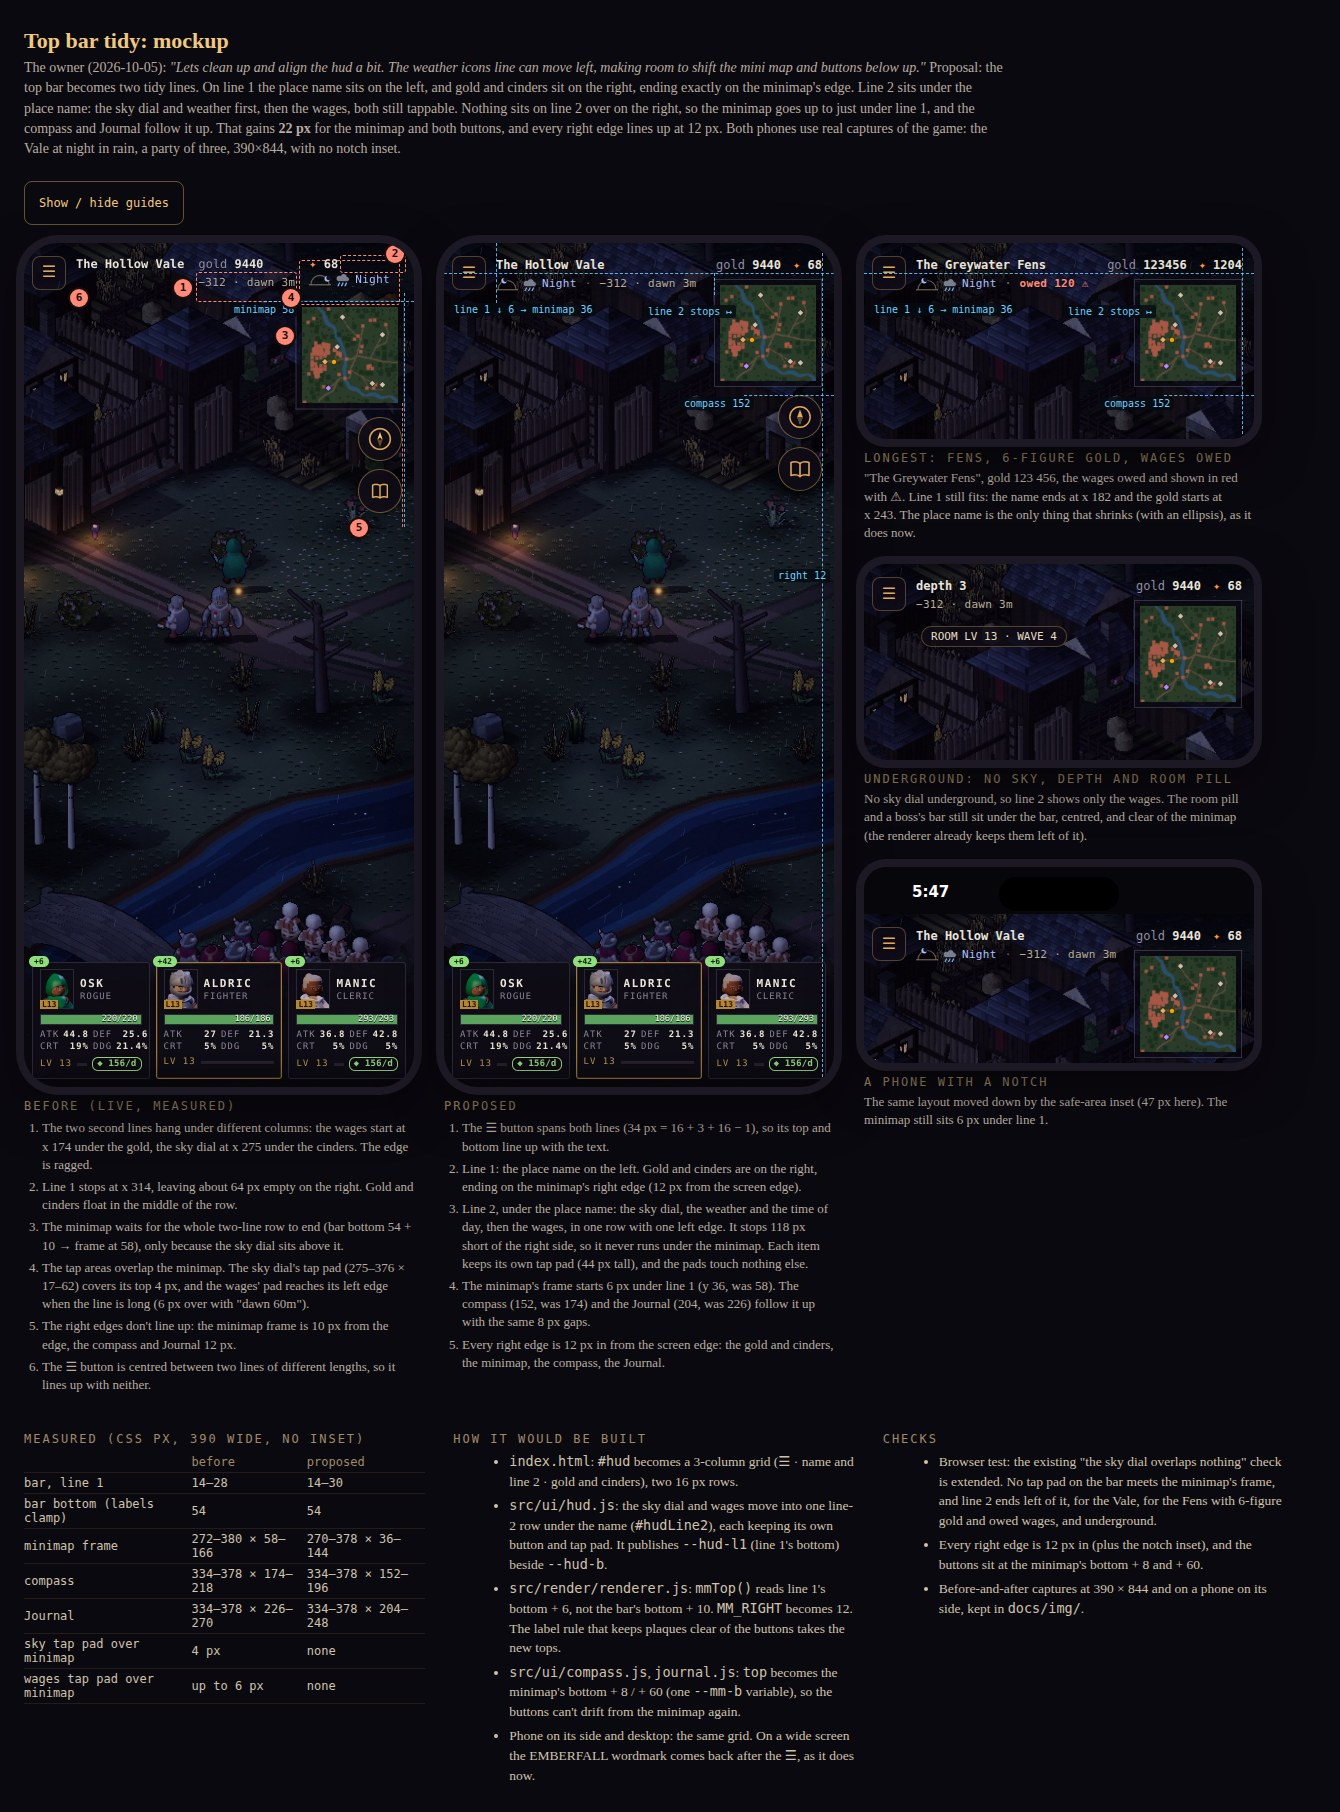
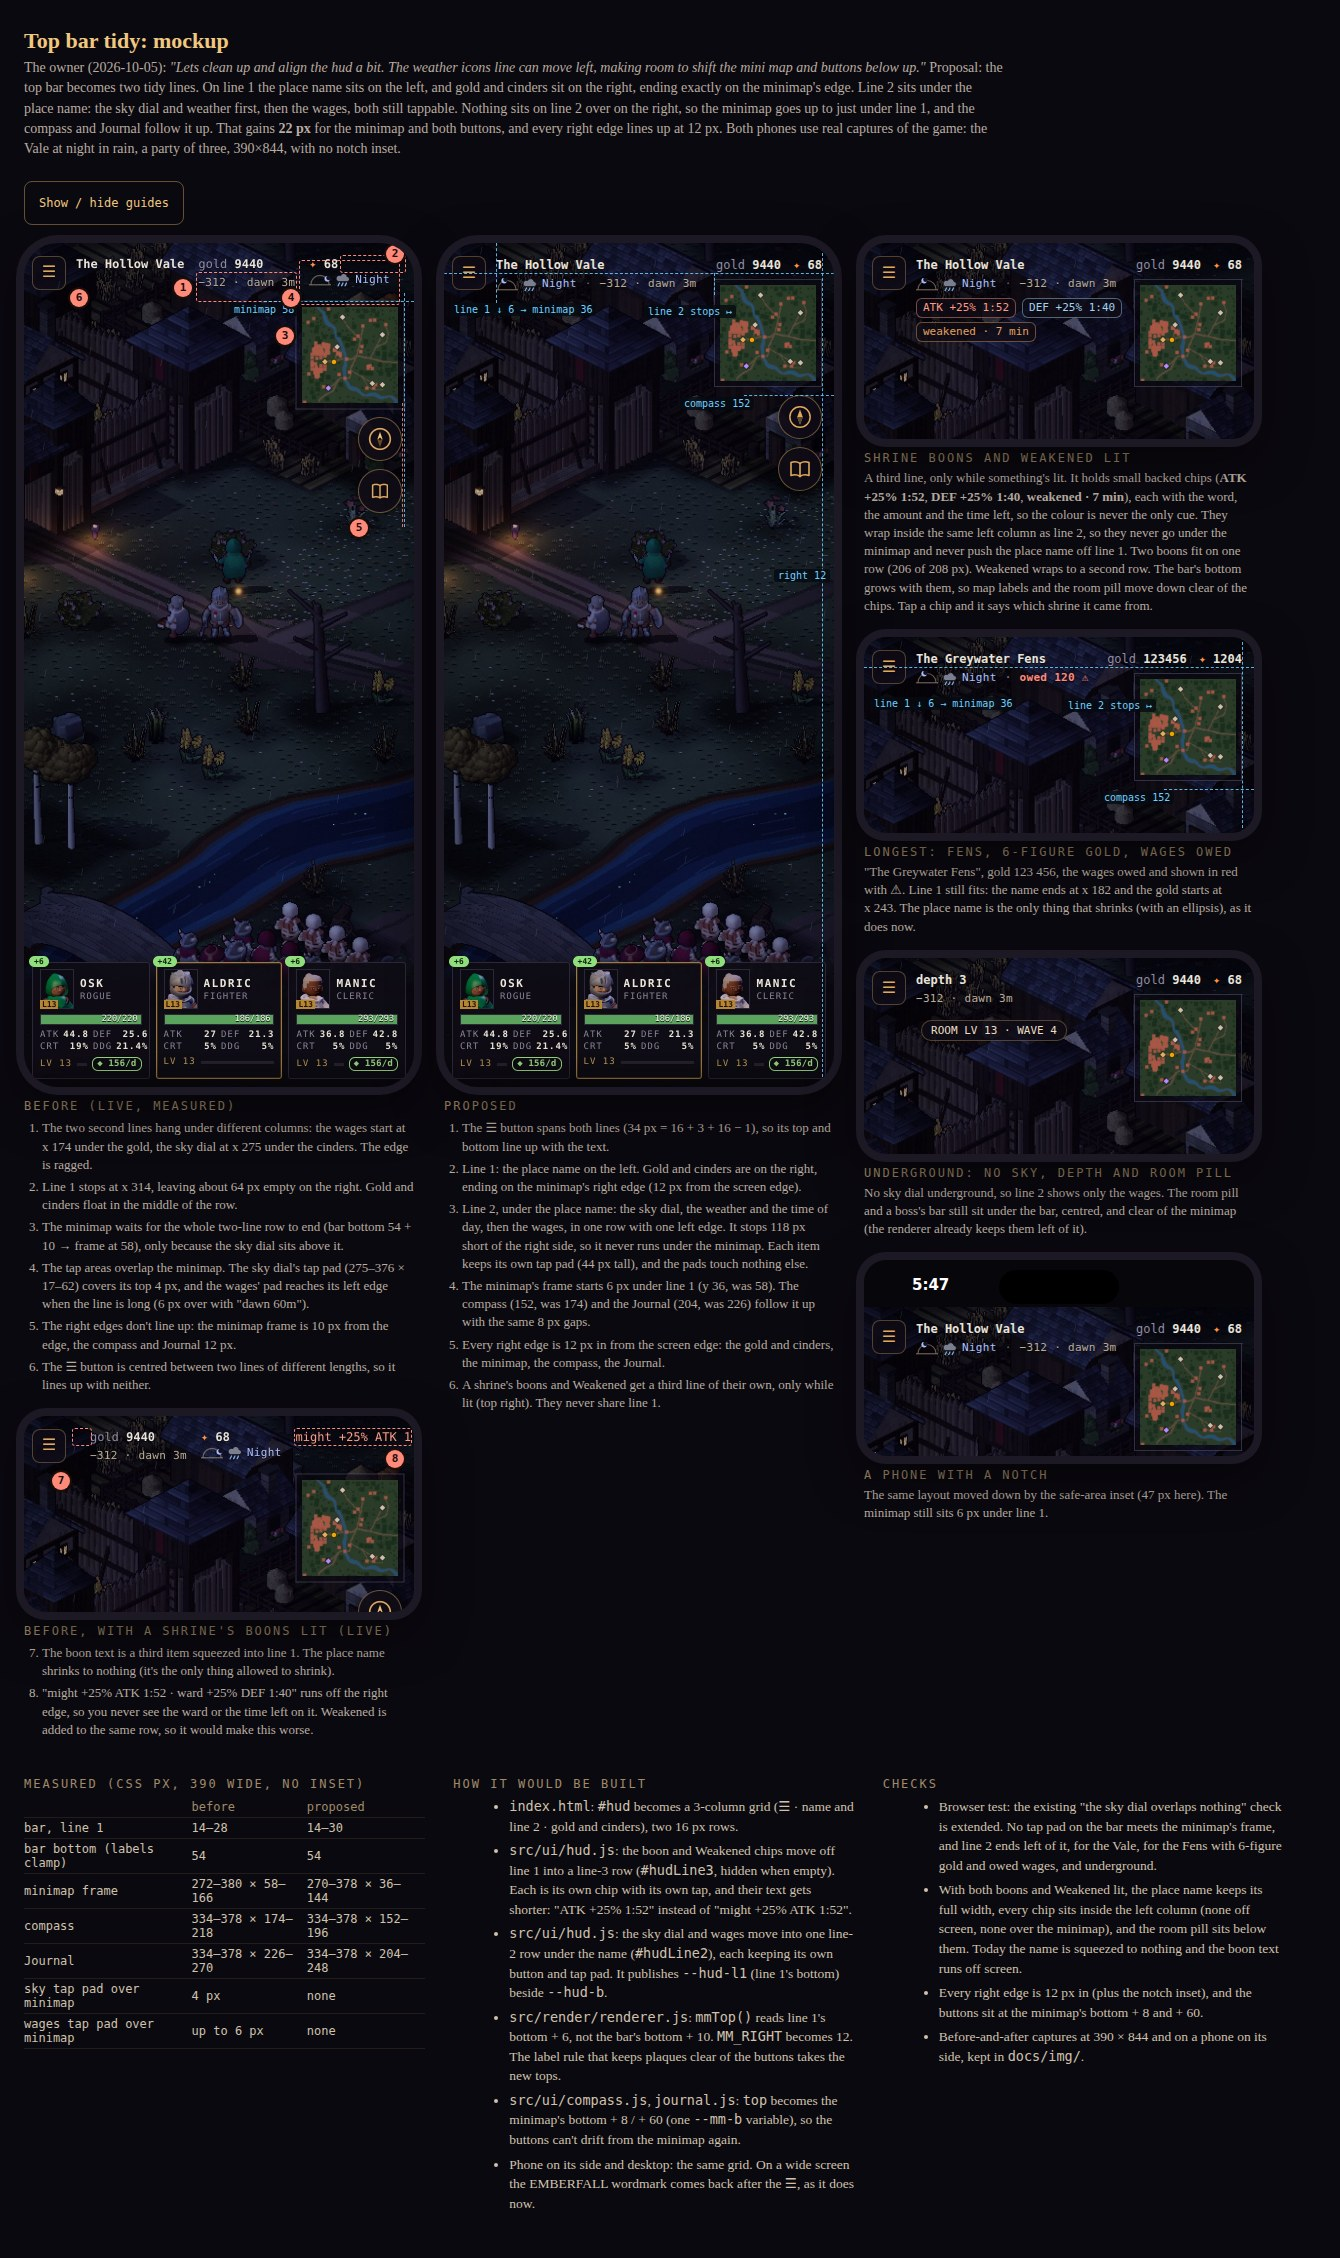
HUD mockup: the shrine boons and Weakened get a line of their own
The owner: "Make sure to account for the shrine buff text with the realignment." Measured live with both boons
lit: the boon text is a third item on the bar's single row, so the place name (the only thing allowed to shrink)
goes to nothing and "might +25% ATK 1:52 · ward +25% DEF 1:40" runs off the right edge; Weakened joins the same
row. The proposal puts them on a third line, only while lit, as small backed chips (ATK +25% 1:52, DEF +25% 1:40,
weakened · 7 min) wrapping in line 2's left column: two boons fit one row (206 of 208 px), none reaches the
minimap, and the bar's bottom grows so labels and the room pill clear them.

Claude-Session: https://claude.ai/code/session_015iJE9saRx1hCYJHRMUYeGn

diff --git a/docs/hud-mockup.html b/docs/hud-mockup.html
@@ -16,6 +16,7 @@
     background: #07060b center top / 390px 844px no-repeat; font-family: ui-monospace, 'SF Mono', Menlo, Consolas, monospace; }
   .phone.short { height: 196px; border-radius: 22px; }
   .before { background-image: url(img/hud-mockup/before.jpg); }
+  .before-boons { background-image: url(img/hud-mockup/before-boons.jpg); }
   .bare { background-image: url(img/hud-mockup/bare.jpg); }
   /* the numbered problems on the "before" capture, and the guides on the proposal */
   .mk { position: absolute; width: 18px; height: 18px; border-radius: 9px; background: var(--bad); color: #1a0d0a; font: 700 11px/18px ui-monospace, Menlo, monospace; text-align: center; box-shadow: 0 0 0 2px #1a0d0a; }
@@ -28,7 +29,7 @@
   /* ── the proposal: the HUD as two lines in a grid. Line 1: place name left, gold and cinders right, ending on the
      minimap's right edge. Line 2 (left only): the sky dial, then the wages. The ☰ spans both lines. */
   .hud2 { position: absolute; left: 0; right: 0; top: var(--st, 0px); padding: 14px 12px 0 8px; display: grid; grid-template-columns: 34px minmax(0, 1fr) auto;
-    grid-template-rows: 16px 16px; column-gap: 10px; row-gap: 3px; color: #e8e4da; text-shadow: 0 1px 0 #0d0913; font-size: 12px; line-height: 16px; }
+    grid-template-rows: 16px 16px auto; column-gap: 10px; row-gap: 3px; color: #e8e4da; text-shadow: 0 1px 0 #0d0913; font-size: 12px; line-height: 16px; }
   .hud2 .menu { grid-row: 1 / 3; width: 34px; height: 34px; margin-top: -1px; border-radius: 8px; background: rgba(16,12,22,0.7); border: 1px solid rgba(214,170,98,0.35); color: #e0a85a;
     font-size: 16px; display: grid; place-items: center; }
   .hud2 .place { grid-column: 2; font-weight: 700; white-space: nowrap; overflow: hidden; text-overflow: ellipsis; }
@@ -37,6 +38,11 @@
   .hud2 .l2 { grid-column: 2 / 4; grid-row: 2; display: flex; align-items: center; gap: 8px; font-size: 11px; letter-spacing: .3px; max-width: calc(100% - 118px); white-space: nowrap; }
   .hud2 .sky { display: flex; align-items: center; gap: 4px; }
   .hud2 .wage { color: #b8ac98; } .hud2 .wage.owed { color: #ff8a7a; font-weight: 700; } .hud2 .wage .dot { color: #6a6478; margin-right: 8px; }
+  /* line 3, only while something's lit: a shrine's boons and Weakened as small backed chips, word + number + time
+     (never the colour alone), wrapping inside the same left column as line 2 */
+  .hud2 .l3 { grid-column: 2 / 4; grid-row: 3; display: flex; flex-wrap: wrap; gap: 4px 6px; max-width: calc(100% - 118px); margin-top: 3px; }
+  .hud2 .chip { font-size: 11px; line-height: 16px; padding: 1px 6px; border-radius: 6px; background: rgba(16,12,22,.78); border: 1px solid; white-space: nowrap; text-shadow: none; }
+  .chip.atk { color: #ff9a84; border-color: rgba(255,154,132,.45); } .chip.def { color: #9fd4f4; border-color: rgba(159,212,244,.45); } .chip.weak { color: #e0a060; border-color: rgba(224,160,96,.45); }
   .mm { position: absolute; right: 12px; width: 108px; height: 108px; padding: 5px; background: rgba(10,8,16,0.6); border: 1px solid rgba(130,120,160,0.35); }
   .mm img { display: block; width: 96px; height: 96px; image-rendering: auto; }
   .rb { position: absolute; right: 12px; width: 44px; height: 44px; border-radius: 22px; background: var(--panel); border: 1px solid var(--line); display: grid; place-items: center; box-shadow: 0 2px 10px rgba(0,0,0,.5); }
@@ -91,6 +97,15 @@
       <li>The right edges don't line up: the minimap frame is 10&nbsp;px from the edge, the compass and Journal 12&nbsp;px.</li>
       <li>The ☰ button is centred between two lines of different lengths, so it lines up with neither.</li>
     </ol>
+    <div class="phone short before-boons" style="margin-top:22px">
+      <div class="box" style="left:48px;top:12px;width:20px;height:18px"></div><div class="mk" style="left:28px;top:56px">7</div>
+      <div class="box" style="left:270px;top:12px;width:118px;height:18px"></div><div class="mk" style="left:362px;top:34px">8</div>
+    </div>
+    <h2>Before, with a shrine's boons lit (live)</h2>
+    <ol start="7">
+      <li>The boon text is a third item squeezed into line 1. The place name shrinks to nothing (it's the only thing allowed to shrink).</li>
+      <li>"might +25% ATK 1:52 · ward +25% DEF 1:40" runs off the right edge, so you never see the ward or the time left on it. Weakened is added to the same row, so it would make this worse.</li>
+    </ol>
   </div>
 
   <!-- AFTER: the proposal over the same world, the minimap moved -->
@@ -103,12 +118,16 @@
       <li>Line 2, under the place name: the sky dial, the weather and the time of day, then the wages, in one row with one left edge. It stops 118&nbsp;px short of the right side, so it never runs under the minimap. Each item keeps its own tap pad (44&nbsp;px tall), and the pads touch nothing else.</li>
       <li>The minimap's frame starts 6&nbsp;px under line 1 (y&nbsp;36, was 58). The compass (152, was 174) and the Journal (204, was 226) follow it up with the same 8&nbsp;px gaps.</li>
       <li>Every right edge is 12&nbsp;px in from the screen edge: the gold and cinders, the minimap, the compass, the Journal.</li>
+      <li>A shrine's boons and Weakened get a third line of their own, only while lit (top right). They never share line 1.</li>
     </ol>
   </div>
 
   <!-- THE HARD CASES -->
   <div class="cap">
-    <div class="phone short bare" id="fens" style="background-position:center -0px"></div>
+    <div class="phone short bare" id="boons"></div>
+    <h2>Shrine boons and Weakened lit</h2>
+    <p>A third line, only while something's lit. It holds small backed chips (<b>ATK +25% 1:52</b>, <b>DEF +25% 1:40</b>, <b>weakened · 7 min</b>), each with the word, the amount and the time left, so the colour is never the only cue. They wrap inside the same left column as line 2, so they never go under the minimap and never push the place name off line 1. Two boons fit on one row (206 of 208&nbsp;px). Weakened wraps to a second row. The bar's bottom grows with them, so map labels and the room pill move down clear of the chips. Tap a chip and it says which shrine it came from.</p>
+    <div class="phone short bare" id="fens" style="margin-top:22px"></div>
     <h2>Longest: Fens, 6-figure gold, wages owed</h2>
     <p>"The Greywater Fens", gold 123&nbsp;456, the wages owed and shown in red with ⚠. Line 1 still fits: the name ends at x&nbsp;182 and the gold starts at x&nbsp;243. The place name is the only thing that shrinks (with an ellipsis), as it does now.</p>
     <div class="phone short bare" id="dungeon" style="margin-top:22px"></div>
@@ -138,6 +157,7 @@
     <h3>How it would be built</h3>
     <ul>
       <li><code>index.html</code>: <code>#hud</code> becomes a 3-column grid (☰ · name and line 2 · gold and cinders), two 16 px rows.</li>
+      <li><code>src/ui/hud.js</code>: the boon and Weakened chips move off line 1 into a line-3 row (<code>#hudLine3</code>, hidden when empty). Each is its own chip with its own tap, and their text gets shorter: "ATK +25% 1:52" instead of "might +25% ATK 1:52".</li>
       <li><code>src/ui/hud.js</code>: the sky dial and wages move into one line-2 row under the name (<code>#hudLine2</code>), each keeping its own button and tap pad. It publishes <code>--hud-l1</code> (line 1's bottom) beside <code>--hud-b</code>.</li>
       <li><code>src/render/renderer.js</code>: <code>mmTop()</code> reads line 1's bottom + 6, not the bar's bottom + 10. <code>MM_RIGHT</code> becomes 12. The label rule that keeps plaques clear of the buttons takes the new tops.</li>
       <li><code>src/ui/compass.js</code>, <code>journal.js</code>: <code>top</code> becomes the minimap's bottom + 8 / + 60 (one <code>--mm-b</code> variable), so the buttons can't drift from the minimap again.</li>
@@ -148,6 +168,7 @@
     <h3>Checks</h3>
     <ul>
       <li>Browser test: the existing "the sky dial overlaps nothing" check is extended. No tap pad on the bar meets the minimap's frame, and line 2 ends left of it, for the Vale, for the Fens with 6-figure gold and owed wages, and underground.</li>
+      <li>With both boons and Weakened lit, the place name keeps its full width, every chip sits inside the left column (none off screen, none over the minimap), and the room pill sits below them. Today the name is squeezed to nothing and the boon text runs off screen.</li>
       <li>Every right edge is 12 px in (plus the notch inset), and the buttons sit at the minimap's bottom + 8 and + 60.</li>
       <li>Before-and-after captures at 390 × 844 and on a phone on its side, kept in <code>docs/img/</code>.</li>
     </ul>
@@ -166,10 +187,11 @@
     const sky = o.sky === false ? '' : `<span class="sky">${night}${rain}<span style="color:#a8c0ff">Night</span></span>`;
     let h = `<div class="hud2" style="--st:${st}px"><div class="menu">☰</div><div class="place">${o.place}</div>`
       + `<div class="money">gold <b>${o.gold}</b><span class="sep"></span><em>✦</em> <b>${o.embers}</b></div>`
-      + `<div class="l2">${sky}<span class="wage${o.owed ? ' owed' : ''}">${o.wage}</span></div></div>`
+      + `<div class="l2">${sky}<span class="wage${o.owed ? ' owed' : ''}">${o.wage}</span></div>`
+      + (o.chips ? `<div class="l3">${o.chips.map(([c, t]) => `<span class="chip ${c}">${t}</span>`).join('')}</div>` : '') + `</div>`
       + `<div class="mm" style="top:${mmT}px"><img src="img/hud-mockup/minimap.png" alt=""></div>`;
     if (o.buttons !== false) h += `<div class="rb" style="top:${mmT + 108 + 8}px">${compass}</div><div class="rb" style="top:${mmT + 108 + 60}px">${book}</div>`;
-    if (o.pill) h += `<div class="pill" style="top:${st + 62}px;left:calc((390px - 130px) / 2)">${o.pill}</div>`;
+    if (o.pill) h += `<div class="pill" style="top:${st + (o.chips ? 106 : 62)}px;left:calc((390px - 130px) / 2)">${o.pill}</div>`;
     if (o.inset) h += `<div class="notch"></div><div class="sb" style="left:48px">5:47</div>`;
     if (o.guides) h += `<div class="gd v" style="left:378px"></div><div class="gl" style="left:330px;top:${mmT + 290}px">right 12</div>`
       + `<div class="gd h" style="top:${l1b}px"></div><div class="gl" style="left:6px;top:${l1b + 30}px">line 1 ↓ 6 → minimap ${mmT}</div>`
@@ -179,6 +201,8 @@
     return h;
   }
   document.getElementById('after').innerHTML = bar({ place: 'The Hollow Vale', gold: '9440', embers: '68', wage: '<span class="dot">·</span>−312 · dawn 3m', guides: true });
+  document.getElementById('boons').innerHTML = bar({ place: 'The Hollow Vale', gold: '9440', embers: '68', wage: '<span class="dot">·</span>−312 · dawn 3m', buttons: false,
+    chips: [['atk', 'ATK +25% 1:52'], ['def', 'DEF +25% 1:40'], ['weak', 'weakened · 7 min']] });
   document.getElementById('fens').innerHTML = bar({ place: 'The Greywater Fens', gold: '123456', embers: '1204', wage: '<span class="dot">·</span>owed 120 ⚠', owed: true, buttons: false, guides: true });
   document.getElementById('dungeon').innerHTML = bar({ place: 'depth 3', gold: '9440', embers: '68', wage: '−312 · dawn 3m', sky: false, buttons: false, pill: 'ROOM LV 13 · WAVE 4' });
   document.getElementById('notch').style.backgroundPosition = 'center 47px';

diff --git a/docs/README.md b/docs/README.md
@@ -40,7 +40,7 @@ the header of each status doc for what it replaces.
 | [dialogue-critic-pass-1.md](./dialogue-critic-pass-1.md) | Dialogue critic pass 1: every conversation, quest, board job and Chronicle note read for who / what / where / when; the fixes (the Journal shows why, hand-ins name the job, one word per thing); and an audit of the game's terms (Fallen, shrine, embers…) with recommendations | **Current** (2026-10-01) |
 | [tavern-hire-mockup.html](./tavern-hire-mockup.html) | Mockup: the tavern's Hire companions view split into two sub-tabs (Your company · Hire) under the Guild's terms and the purse; "Add to roster · fee" when the party is full; swap a bench member in from the tavern | **Implemented** (2026-10-02): `src/ui/townmenu.js` hire(); browser test §15 |
 | [art-critic-pass-3.md](./art-critic-pass-3.md) | Critic pass 3: fluid movement (velocity, pure-pursuit paths, companion pursuit, sub-pixel camera, stride settle), +10 % walk speed, knight lighting, hit rim; measured before/after | **Current** for movement (2026-09-28) |
-| [hud-mockup.html](./hud-mockup.html) | Mockup: the top bar tidied into two lines (place name and gold/cinders on one; sky dial then wages under the name), so the minimap, compass and Journal sit 22 px higher with one 12 px right edge; before (live, measured) vs proposed, plus the long-name, underground and notch cases | **Proposed** (2026-10-05), awaiting the owner |
+| [hud-mockup.html](./hud-mockup.html) | Mockup: the top bar tidied into two lines (place name and gold/cinders on one; sky dial then wages under the name), so the minimap, compass and Journal sit 22 px higher with one 12 px right edge; before (live, measured) vs proposed, plus the shrine boons and Weakened on a third line (today they squeeze the place name to nothing and run off screen), the long-name, underground and notch cases | **Proposed** (2026-10-05), awaiting the owner |
 | [compass-mockup.html](./compass-mockup.html) | Compass travel mockup: context-sensitive destinations (dungeon / overland / town) the party auto-walks to | **Implemented** (src/ui/compass.js, src/sim/travel.js) |
 | [gear-mockup.html](./gear-mockup.html) | Character sheet mockup: tap a party card for six gear slots, stats and the party bag; item cards with comparison; loot toast | **Implemented** (src/ui/sheet.js) |
 | [intro-mockup.html](./intro-mockup.html) | Load screen and intro, *The Chronicle of the Fall*, revision 4: direction C (Ash and flame); a script with a hook and a leader on every card; a haunting synth score in four cues (the Fall's carries unbroken through cards 3–5), with voice-led transitions on shared notes and equal-power crossfades; a painted finishing pass; the No Game Studios splash; lore-and-one-liner loading tips; no narration; and the script, music and art critiques | **Implemented** (2026-09-29; the closing lines became *"The heroes of this age are not available… Looks like it is up to you."*): `src/cutscene/` (`player.js`, `scenes.js`, `score.js`), `content/cutscenes/intro.json`, `content/tips.json` |
